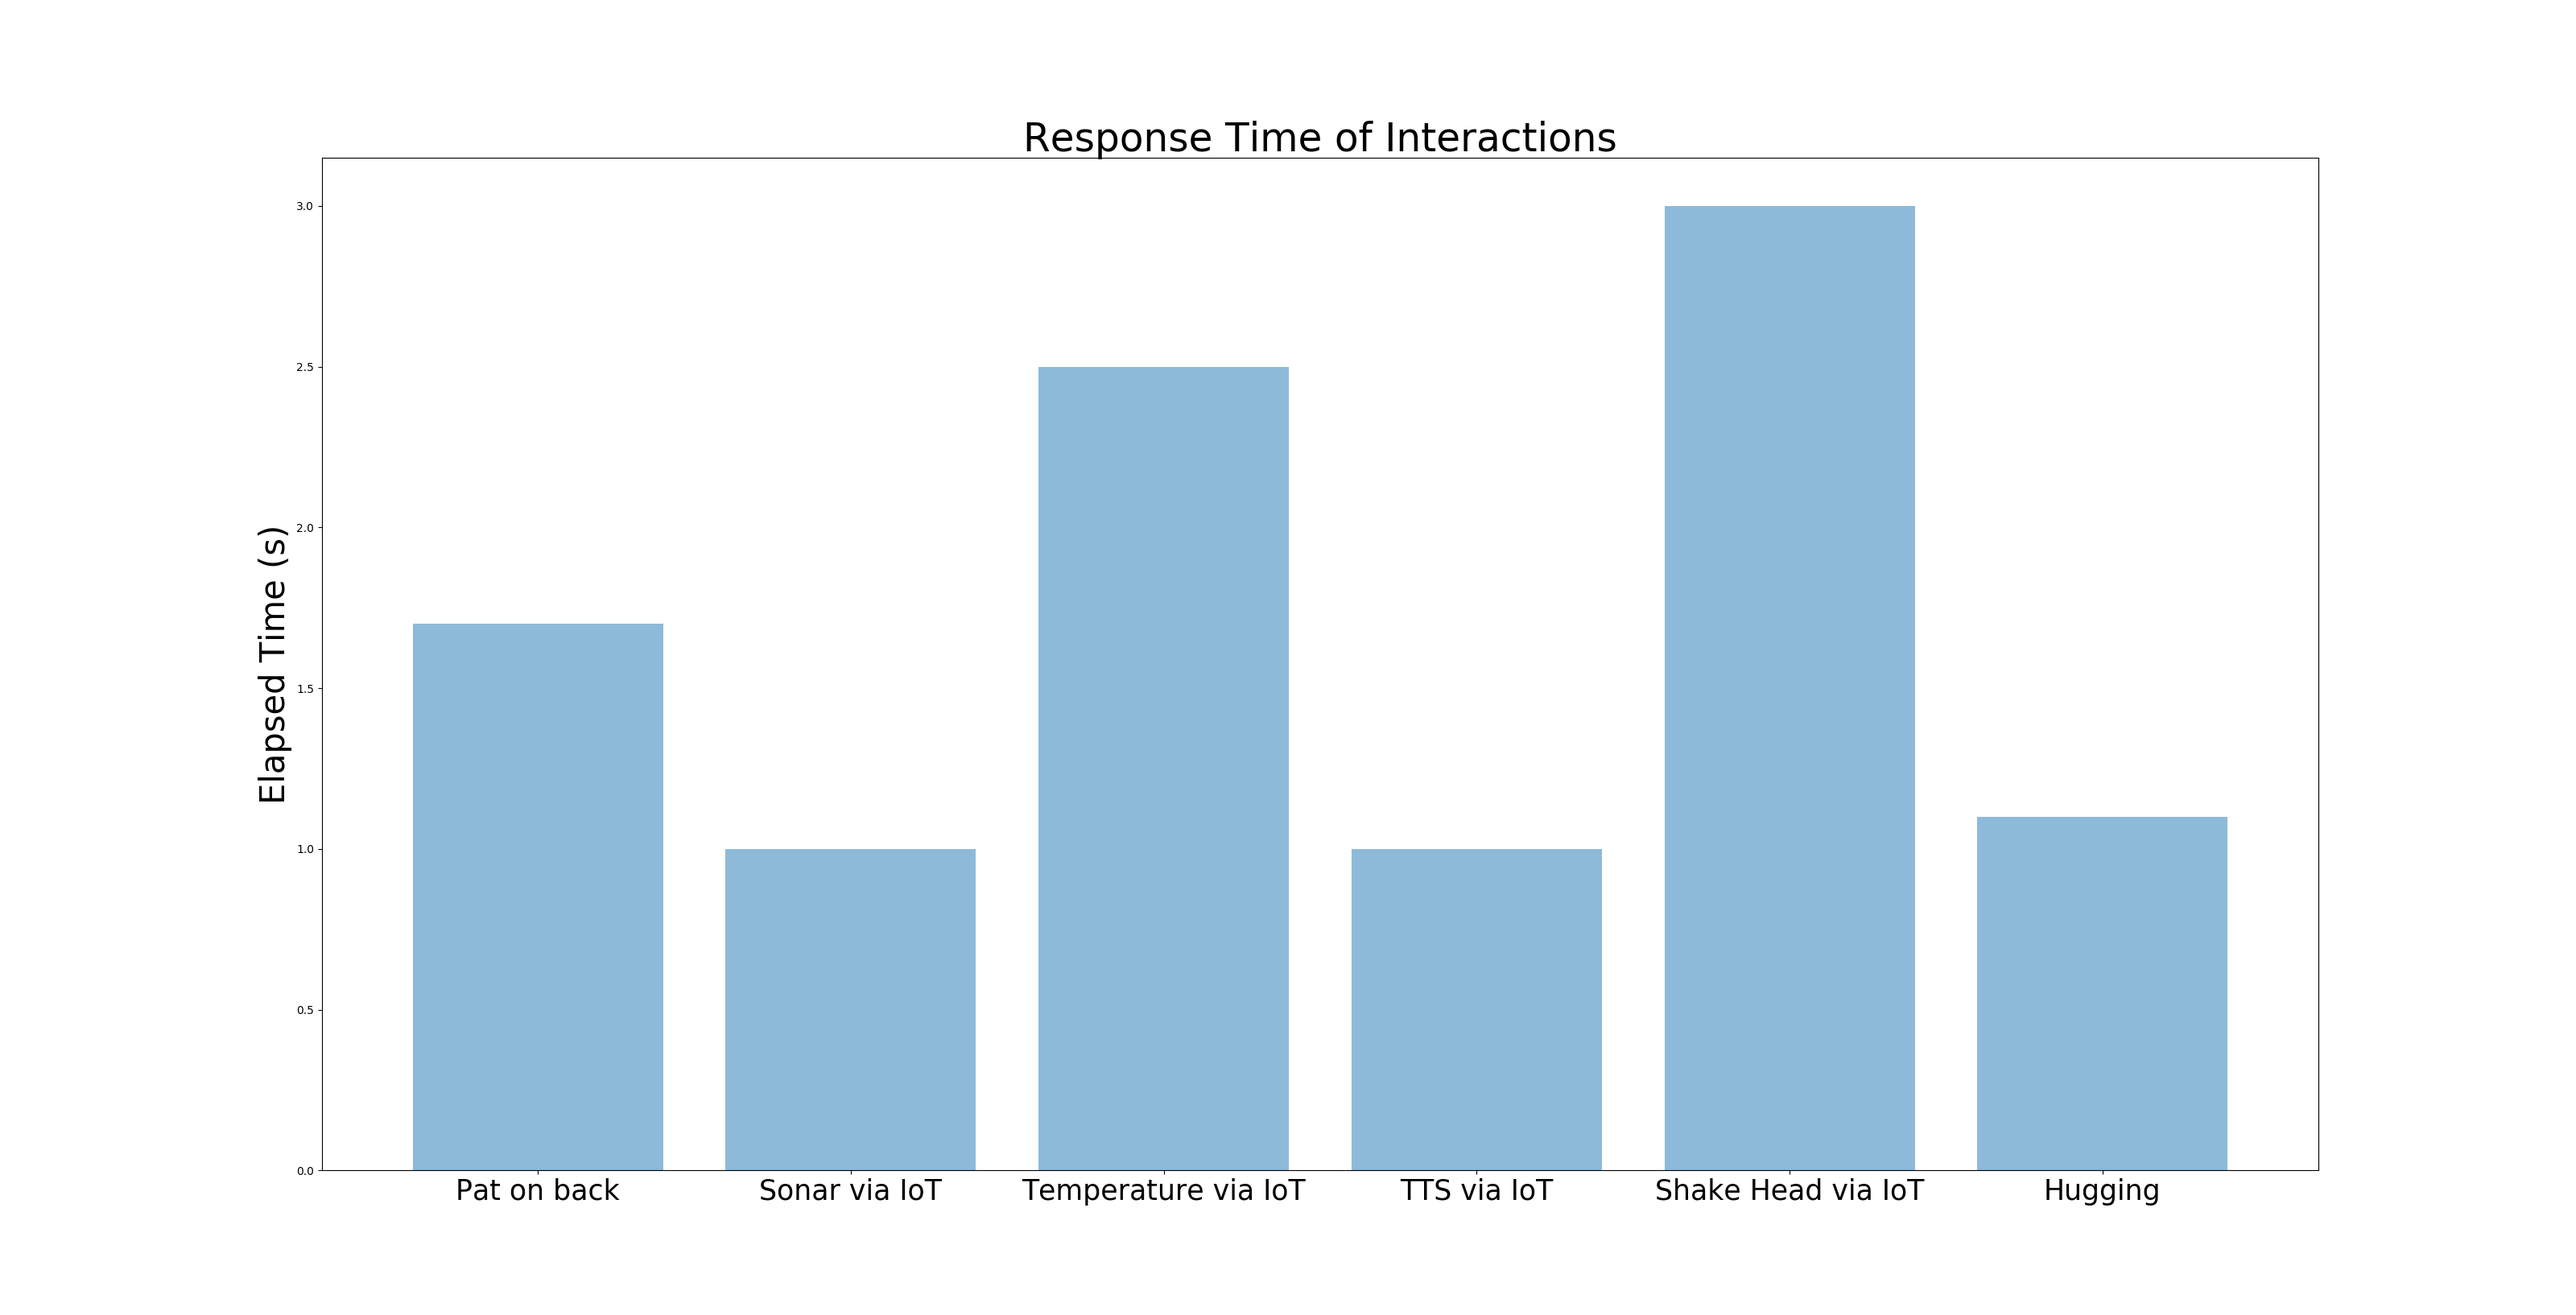
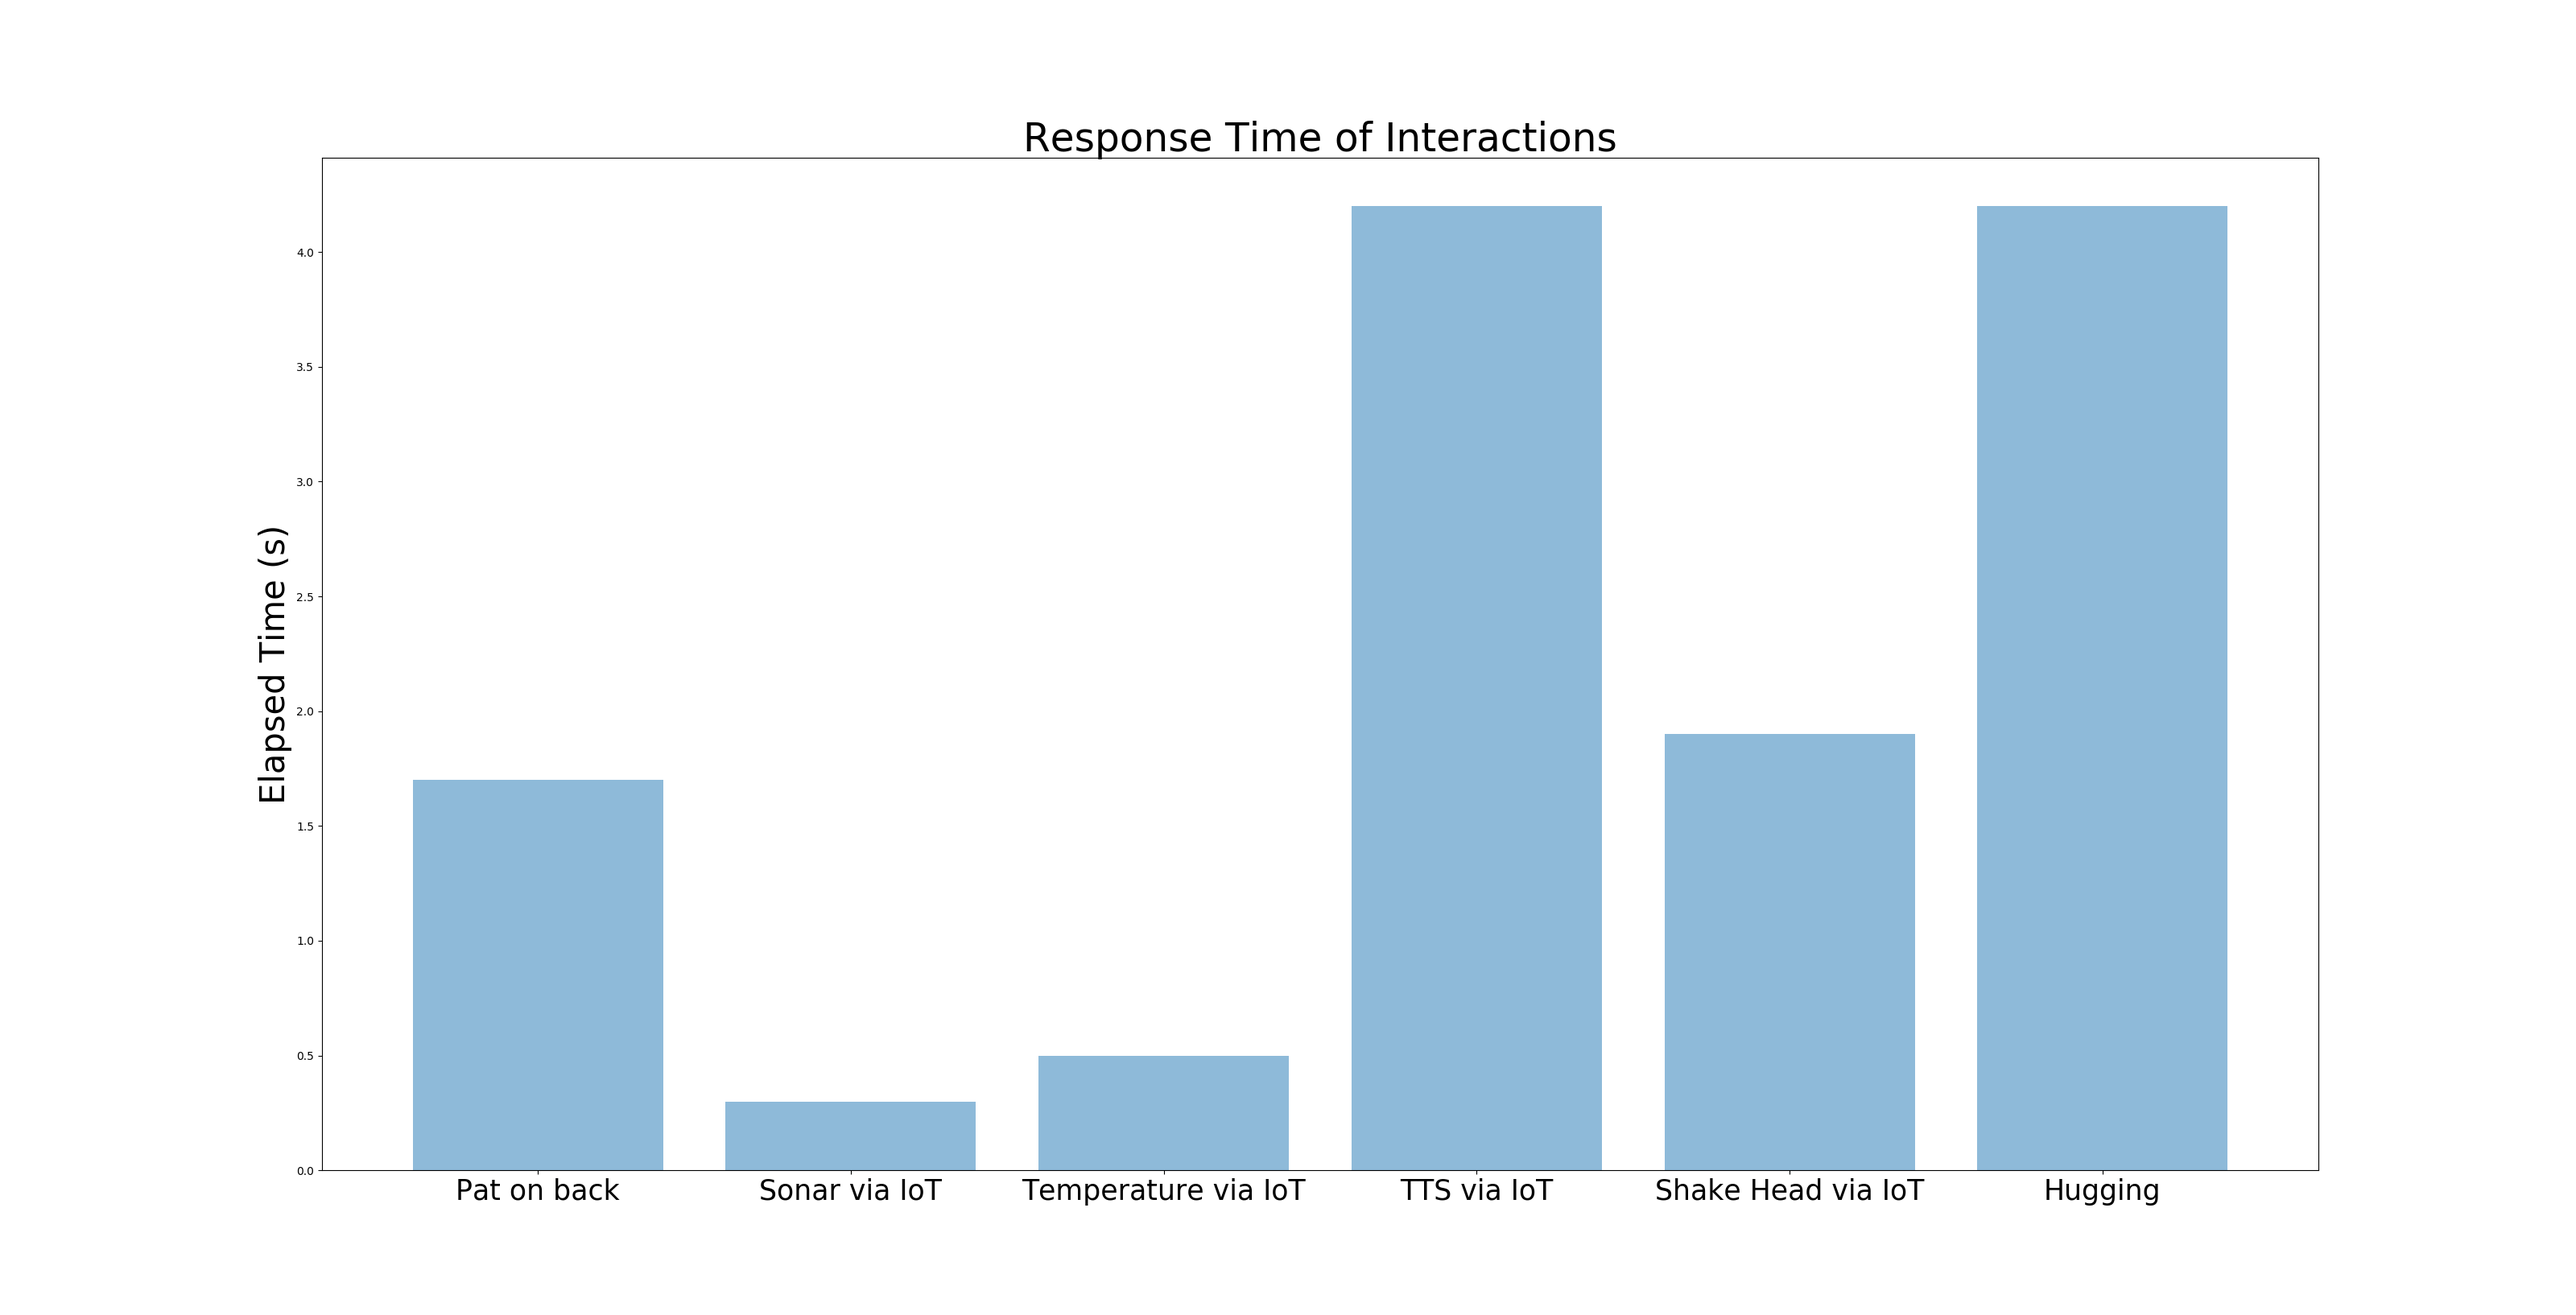
data update

Changed region(s): [[0.2812, 0.1561, 0.875, 0.8427], [0.1562, 0.4682, 0.2812, 0.593]]

diff --git a/plots/bvr_resp.py b/plots/bvr_resp.py
@@ -4,7 +4,7 @@ import matplotlib.pyplot as plt
  
 objects = ('Pat on back', 'Sonar via IoT', 'Temperature via IoT', 'TTS via IoT', 'Shake Head via IoT', 'Hugging')
 y_pos = np.arange(len(objects))
-timings = [1.7, 1, 2.5, 1, 3, 1.1]
+timings = [1.7, 0.3, 0.5, 4.2, 1.9, 4.2]
  
 plt.bar(y_pos, timings, align='center', alpha=0.5)
 plt.xticks(y_pos, objects)
